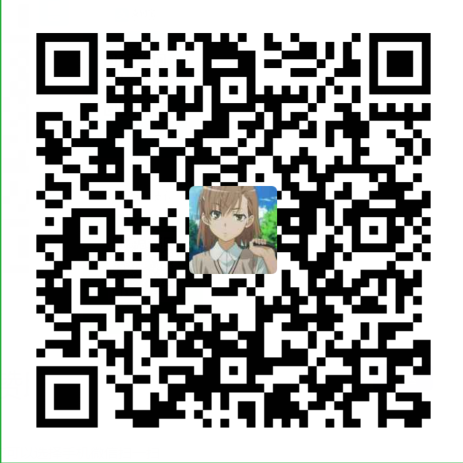
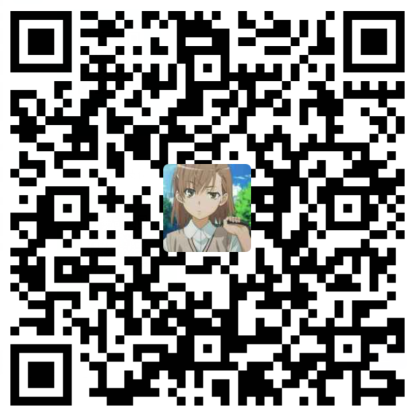
0.5

diff --git a/_includes/header.html b/_includes/header.html
@@ -7,7 +7,7 @@
         <span class="icon-bar"></span>
       </button>
       <a href="/" class="navbar-brand">
-        <img src="{{ '/styles/images/logo.jpg' | prepend: site.baseurl }}">
+        <img src="{{ '/styles/images/heishui.PNG' | prepend: site.baseurl }}" width="80" />
       </a>
     </div>
     <nav class="collapse navbar-collapse bs-navbar-collapse" role="navigation">
@@ -16,10 +16,10 @@
           <a href="{{ '/' | prepend: site.baseurl }}">Home</a>
         </li>
         <li>
-          <a href="{{ '/categories/' | prepend: site.baseurl }}">大类分解</a>
+          <a href="{{ '/categories/' | prepend: site.baseurl }}">categories</a>
         </li>
         <li>
-          <a href="{{ '/tag' | prepend: site.baseurl }}">小类内聚</a>
+          <a href="{{ '/tag' | prepend: site.baseurl }}">tag</a>
         </li>
       </ul>
       <ul class="nav navbar-nav navbar-right">
@@ -35,7 +35,7 @@
             <li><a rel="nofollow" href="{{ '/reference' | prepend: site.baseurl }}">推荐博客</a></li>
             <li><a href="{{ '/feed.xml' | prepend: site.baseurl }}">RSS订阅</a></li>
             <li class="divider"></li>
-            <li><a rel="nofollow" target="_blank" href="https://github.com/luoyan35714/LessOrMore.git">本项目</a></li>
+            <li><a rel="nofollow" target="_blank" href="https://github.com/bg25452/bg25452.github.io">本项目</a></li>
           </ul>
         </li>
       </ul>

diff --git a/_layouts/post.html b/_layouts/post.html
@@ -29,7 +29,6 @@ layout: default
           <div class="wrapper">
             {% include lessismore/comments %} 
           </div>
-        </article>
       </div>
     </div>
   </div>

diff --git a/donate/index.md b/donate/index.md
@@ -17,10 +17,10 @@ header: 打赏
 点击上面小额赞助即可呦！
 <br>
 
-![Thank you very much!]({{ '/styles/images/freud.jpg' | prepend: site.baseurl }})
+<img src="{{ '/styles/images/yuban01.jpg' | prepend: site.baseurl }}" alt="thank you very much" width="750" />
 <br>
 
->声明: 此博客空间用于分享作者个人的一些技术相关， 此网站基于[MIT开源协议](https://github.com/luoyan35714/LessOrMore/blob/master/LICENSE)所有内容完全免费，请放心使用。
+>声明: 此博客空间用于分享作者个人的一些技术相关， 此网站基于[MIT开源协议](https://github.com/bg25452/bg25452.github.io/LICENSE )所有内容完全免费，请放心使用。
 
 <hr>
 
@@ -30,7 +30,7 @@ header: 打赏
 <hr>
 您可以选择手机支付宝扫一扫
 
-<img src="{{ '/styles/images/zhifubao.PNG' | prepend: site.baseurl }}" alt="支付宝二维码付款给Freud" width="310" />
+<img src="{{ '/styles/images/zhifubao.PNG' | prepend: site.baseurl }}" alt="支付宝二维码付款给黑水" width="310" />
 
 <br>
 <br>
@@ -41,7 +41,7 @@ header: 打赏
 <hr>
 您可以选择手机微信扫一扫
 
-![微信二维码付款给Freud]({{ '/styles/images/weixin.png' | prepend: site.baseurl }})
+<img src="{{ '/styles/images/weixin.PNG' | prepend: site.baseurl }}" alt="微信二维码付款给黑水" width="310" />
 
 <br>
 <br>

diff --git a/donate/method/index.md b/donate/method/index.md
@@ -26,7 +26,7 @@ permlink: /method
 <hr>
 您可以选择手机微信扫一扫
 
-![微信二维码付款给Freud]({{ '/styles/images/weixin.png' | prepend: site.baseurl }})
+<img src="{{ '/styles/images/weixin.PNG' | prepend: site.baseurl }}" alt="微信二维码付款给Freud" width="310" />
 
 <br>
 <br>

diff --git a/README.md b/README.md
@@ -39,9 +39,9 @@ github: github地址
 github_username: github用户名称
 FB:
   comments :
-    provider : disqus
-    disqus :
-        short_name : Disqus账户
+    provider : cloudtie
+    cloudtie :
+        short_name : cloudtie账户
 ```
 
 如何写文章
